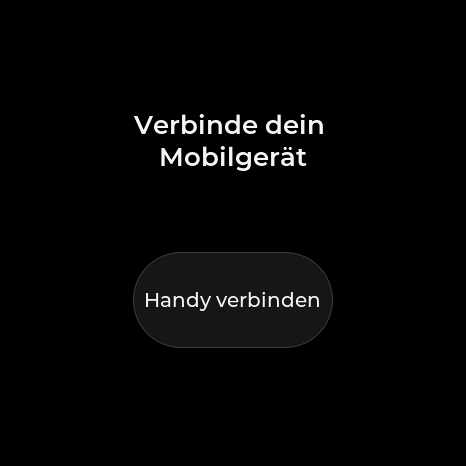
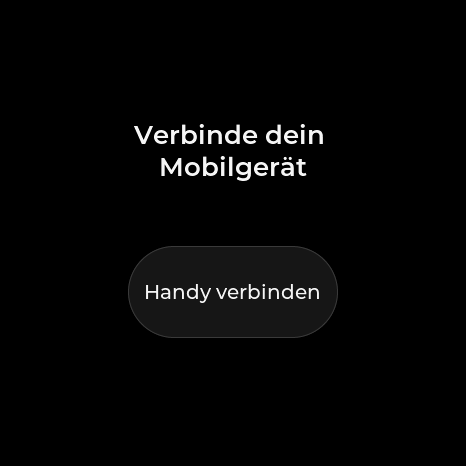
feat(ui): pairing QR on the "Handy verbinden" screen
Tapping "Handy verbinden" swaps the prompt for a pairing QR code (white,
168 px) with a 3-line quick guide below it — Bluetooth an · Kamera auf
den Code · nach dem Verbinden die App öffnen — plus the advertising
status. Tap the QR to go back.

- The QR encodes `blitzerdedsp://pair?mac=<BLE address>`; the URI scheme
  is provisional (TODO — the companion app owns it), but the real BLE
  MAC is baked in so the app connects to *this* display.
- BleTransport::address_string() exposes the MAC once the host syncs;
  app_main fills the QR in via ScreenManager::set_connect_qr().
- Enabled LV_USE_QRCODE (host lv_conf + firmware Kconfig).
- ConnectScreen resets to the prompt when the screen is left.

Host tests 62/62. Firmware: advertises as BlitzerdeDsp (98:A3:16:A7:F1:EA),
heap after LVGL ~109 KB, binary 1.83 MB (42% free), stable.

diff --git a/ui/screens/connect_screen.cpp b/ui/screens/connect_screen.cpp
@@ -1,5 +1,7 @@
 #include "ui/screens/connect_screen.h"
 
+#include <cstring>
+
 #include "ui/i18n/i18n.h"
 #include "ui/theme/fonts.h"
 #include "ui/theme/tokens.h"
@@ -8,32 +10,89 @@
 
 namespace ui {
 
+namespace {
+constexpr int kQrSize = 168;
+constexpr int kQrPad = 12;
+const char* kInitialPayload = "blitzerdedsp://pair";
+}  // namespace
+
 ConnectScreen::ConnectScreen(lv_obj_t* parent) {
     root_ = make_layer(parent);
     lv_obj_set_size(root_, 466, 466);
     set_bg(root_, tok::kBg);
 
-    lv_obj_t* prompt = lv_label_create(root_);
-    lv_label_set_text(prompt, i18n::t(i18n::Str::ConnectPrompt));
-    lv_obj_set_style_text_font(prompt, font::title(), 0);
-    lv_obj_set_style_text_color(prompt, tok::col(tok::kTextPrimary), 0);
-    lv_obj_set_style_text_align(prompt, LV_TEXT_ALIGN_CENTER, 0);
-    lv_obj_set_width(prompt, 300);
-    lv_label_set_long_mode(prompt, LV_LABEL_LONG_WRAP);
-    place_center(prompt, 233, 140);
+    // ── prompt view ──────────────────────────────────────────────────────────
+    prompt_ = lv_label_create(root_);
+    lv_label_set_text(prompt_, i18n::t(i18n::Str::ConnectPrompt));
+    lv_obj_set_style_text_font(prompt_, font::title(), 0);
+    lv_obj_set_style_text_color(prompt_, tok::col(tok::kTextPrimary), 0);
+    lv_obj_set_style_text_align(prompt_, LV_TEXT_ALIGN_CENTER, 0);
+    lv_obj_set_width(prompt_, 300);
+    lv_label_set_long_mode(prompt_, LV_LABEL_LONG_WRAP);
+    place_center(prompt_, 233, 150);
 
-    button_ = new PillButton(root_, i18n::t(i18n::Str::ConnectButton), 200, 96);
-    place_center(button_->root(), 233, 300);
-    button_->on_press([this]() { if (connect_) connect_(); });
+    button_ = new PillButton(root_, i18n::t(i18n::Str::ConnectButton), 210, 92);
+    place_center(button_->root(), 233, 292);
+    button_->on_press([this]() {
+        if (connect_) connect_();
+        show_qr(true);
+    });
+
+    // ── QR view (hidden until "Handy verbinden") ─────────────────────────────
+    qr_ = lv_qrcode_create(root_);
+    lv_qrcode_set_size(qr_, kQrSize);
+    lv_qrcode_set_dark_color(qr_, lv_color_black());
+    lv_qrcode_set_light_color(qr_, lv_color_white());
+    lv_obj_set_style_bg_color(qr_, lv_color_white(), 0);
+    lv_obj_set_style_bg_opa(qr_, LV_OPA_COVER, 0);
+    lv_obj_set_style_pad_all(qr_, kQrPad, 0);
+    lv_obj_set_style_radius(qr_, 8, 0);
+    lv_qrcode_update(qr_, kInitialPayload, std::strlen(kInitialPayload));
+    place_center(qr_, 233, 160);
+    lv_obj_add_flag(qr_, LV_OBJ_FLAG_CLICKABLE);   // tap to go back to the prompt
+    lv_obj_add_event_cb(
+        qr_,
+        [](lv_event_t* e) {
+            static_cast<ConnectScreen*>(lv_event_get_user_data(e))->show_qr(false);
+        },
+        LV_EVENT_CLICKED, this);
+
+    guide_ = lv_label_create(root_);
+    lv_label_set_text(guide_, i18n::t(i18n::Str::ConnectGuide));
+    lv_obj_set_style_text_font(guide_, font::small(), 0);
+    lv_obj_set_style_text_color(guide_, tok::col(tok::kTextMuted), 0);
+    lv_obj_set_style_text_align(guide_, LV_TEXT_ALIGN_LEFT, 0);
+    lv_obj_set_style_text_line_space(guide_, 4, 0);
+    place_center(guide_, 233, 330);
 
     status_ = lv_label_create(root_);
     lv_obj_set_style_text_font(status_, font::small(), 0);
     lv_obj_set_style_text_color(status_, tok::col(tok::kTextMuted), 0);
-    place_center(status_, 233, 372);
+    place_center(status_, 233, 400);
+
+    show_qr(false);
     set_status(Status::Idle);
 }
 
 ConnectScreen::~ConnectScreen() { delete button_; }
+
+void ConnectScreen::show_qr(bool on) {
+    for (lv_obj_t* o : {qr_, guide_}) {
+        if (on) lv_obj_remove_flag(o, LV_OBJ_FLAG_HIDDEN);
+        else lv_obj_add_flag(o, LV_OBJ_FLAG_HIDDEN);
+    }
+    for (lv_obj_t* o : {prompt_, button_->root()}) {
+        if (on) lv_obj_add_flag(o, LV_OBJ_FLAG_HIDDEN);
+        else lv_obj_remove_flag(o, LV_OBJ_FLAG_HIDDEN);
+    }
+}
+
+void ConnectScreen::reset() { show_qr(false); }
+
+void ConnectScreen::set_qr_payload(const char* s) {
+    if (!s || !*s || !qr_) return;
+    lv_qrcode_update(qr_, s, std::strlen(s));
+}
 
 void ConnectScreen::set_status(Status s) {
     const char* txt = "";

diff --git a/firmware/components/transport_ble/ble_transport.cpp b/firmware/components/transport_ble/ble_transport.cpp
@@ -11,6 +11,7 @@
 // run on the app loop. The small shared state is guarded by g_mtx.
 #include "firmware/components/transport_ble/ble_transport.h"
 
+#include <cstdio>
 #include <cstring>
 
 #include "esp_log.h"
@@ -61,6 +62,7 @@ uint16_t g_settings_h = 0;
 bool     g_event_sub = false;
 bool     g_settings_sub = false;
 uint8_t  g_own_addr_type = 0;
+char     g_addr_str[18] = {0};
 
 struct Lock {
     Lock() { if (g_mtx) xSemaphoreTake(g_mtx, portMAX_DELAY); }
@@ -280,8 +282,13 @@ void on_sync() {
         ESP_LOGE(TAG, "no BLE address");
         return;
     }
+    uint8_t a[6];
+    if (ble_hs_id_copy_addr(g_own_addr_type, a, nullptr) == 0) {
+        std::snprintf(g_addr_str, sizeof(g_addr_str), "%02X:%02X:%02X:%02X:%02X:%02X",
+                      a[5], a[4], a[3], a[2], a[1], a[0]);   // NimBLE stores it LE
+    }
     start_advertising();
-    ESP_LOGI(TAG, "advertising as BlitzerdeDsp");
+    ESP_LOGI(TAG, "advertising as BlitzerdeDsp (%s)", g_addr_str);
 }
 
 void on_reset(int reason) { ESP_LOGW(TAG, "nimble reset %d", reason); }
@@ -379,6 +386,7 @@ bool BleTransport::state_stale() const {
 
 void BleTransport::set_caps(uint32_t caps) { g_caps = caps; }
 void BleTransport::set_fw_version(const char* v) { g_fw = v; }
+const char* BleTransport::address_string() const { return g_addr_str; }
 void BleTransport::on_time_set(std::function<void(uint32_t, int16_t)> cb) {
     g_time_cb = std::move(cb);
 }

diff --git a/firmware/main/app_main.cpp b/firmware/main/app_main.cpp
@@ -135,6 +135,9 @@ extern "C" void app_main(void) {
     hal::Buttons* btn = hal::esp::buttons_instance();
     uint32_t ticks = 0;
     uint64_t last_beat = 0;
+#if defined(CONFIG_BDSP_ENABLE_BLE)
+    bool qr_set = false;
+#endif
     while (true) {
         if (boot && boot_done.load()) {
             hal::esp::lvgl_lock();
@@ -142,6 +145,20 @@ extern "C" void app_main(void) {
             boot = nullptr;
             hal::esp::lvgl_unlock();
         }
+#if defined(CONFIG_BDSP_ENABLE_BLE)
+        if (!qr_set && ble.address_string()[0]) {
+            // TODO(verify): the exact pairing URI is the companion app's call
+            // (App Link / custom scheme). This carries the BLE address so the
+            // app connects to *this* display.
+            char uri[64];
+            std::snprintf(uri, sizeof(uri), "blitzerdedsp://pair?mac=%s", ble.address_string());
+            hal::esp::lvgl_lock();
+            mgr->set_connect_qr(uri);
+            hal::esp::lvgl_unlock();
+            qr_set = true;
+            ESP_LOGI(TAG, "pairing QR: %s", uri);
+        }
+#endif
         if (btn->poll_boot() == hal::ButtonEvent::LongPress) {
 #if defined(CONFIG_BDSP_ENABLE_BLE)
             const bool want_demo = !mux.demo_active();

diff --git a/ui/screens/connect_screen.h b/ui/screens/connect_screen.h
@@ -1,6 +1,6 @@
 // ui/screens/connect_screen.h — "Verbinde dein Mobilgerät" prompt. Shown on first
-// boot / when the BLE link is missing. Overlay above the tileview; swipe-up to
-// Settings stays available (handled by ScreenManager). Layout: docs/ui-spec.md 5.7.
+// boot / when the BLE link is missing. Tapping "Handy verbinden" swaps the prompt
+// for a pairing QR code + a short guide. Layout: docs/ui-spec.md 5.7.
 #pragma once
 
 #include <functional>
@@ -23,11 +23,20 @@ public:
 
     void on_connect(std::function<void()> cb) { connect_ = std::move(cb); }
     void set_status(Status s);
+    // The string the pairing QR encodes (a deep link the companion app handles).
+    void set_qr_payload(const char* s);
+    // Back to the prompt (e.g. when leaving the screen).
+    void reset();
 
     lv_obj_t* root() { return root_; }
 
 private:
+    void show_qr(bool on);
+
     lv_obj_t*             root_ = nullptr;
+    lv_obj_t*             prompt_ = nullptr;
+    lv_obj_t*             qr_ = nullptr;
+    lv_obj_t*             guide_ = nullptr;
     lv_obj_t*             status_ = nullptr;
     PillButton*           button_ = nullptr;
     std::function<void()> connect_;

diff --git a/ui/screens/screen_manager.cpp b/ui/screens/screen_manager.cpp
@@ -111,6 +111,10 @@ void ScreenManager::set_link_status(const char* text) {
     settings_->set_footer("0.1.0-dev", 1, text);
 }
 
+void ScreenManager::set_connect_qr(const char* payload) {
+    connect_->set_qr_payload(payload);
+}
+
 void ScreenManager::set_state(const core::DisplayState& s) {
     state_ = s;
     use_mph_ = s.useMph;
@@ -124,8 +128,12 @@ void ScreenManager::set_state(const core::DisplayState& s) {
 void ScreenManager::set_view(const core::ViewModel& vm) {
     // Connect screen (its own layer, on top of everything).
     const bool want_connect = vm.screen == core::Screen::Connect;
-    if (want_connect) lv_obj_remove_flag(overlay_layer_, LV_OBJ_FLAG_HIDDEN);
-    else lv_obj_add_flag(overlay_layer_, LV_OBJ_FLAG_HIDDEN);
+    if (want_connect) {
+        lv_obj_remove_flag(overlay_layer_, LV_OBJ_FLAG_HIDDEN);
+    } else {
+        lv_obj_add_flag(overlay_layer_, LV_OBJ_FLAG_HIDDEN);
+        connect_->reset();   // next open starts on the prompt, not the QR
+    }
 
     // Settings layer.
     const bool want_settings = vm.screen == core::Screen::Settings;

diff --git a/ui/lv_conf.h b/ui/lv_conf.h
@@ -43,6 +43,7 @@
 #define LV_USE_GRID 1
 #define LV_USE_TILEVIEW 1              // Home / Melden / Settings swipe navigation
 #define LV_USE_SNAPSHOT 1             // sim screenshot export
+#define LV_USE_QRCODE 1               // "Handy verbinden" pairing code
 
 // ─── Fonts ───────────────────────────────────────────────────────────────────
 #define LV_FONT_MONTSERRAT_14 1           // fallback + LVGL symbol glyphs (small)

diff --git a/ui/i18n/i18n_de.cpp b/ui/i18n/i18n_de.cpp
@@ -28,6 +28,10 @@ constexpr const char* kDe[] = {
     "km/h \xC2\xB7 mph",  // km/h · mph
     "Verbinde dein Mobilger\xC3\xA4t",  // Mobilgerät
     "Handy verbinden",
+    // ConnectGuide — Bluetooth an, Kamera auf den Code, nach dem Verbinden App öffnen
+    "1  Bluetooth einschalten\n"
+    "2  Kamera auf den Code halten\n"
+    "3  Nach dem Verbinden die App \xC3\xB6" "ffnen",
     "Advertising \xE2\x80\xA6",  // Advertising …
     "Verbunden",
     "Fehler",

diff --git a/firmware/components/transport_ble/ble_transport.h b/firmware/components/transport_ble/ble_transport.h
@@ -31,6 +31,9 @@ public:
     void set_fw_version(const char* v);
     // Fires (from the BLE task) when the app writes the Time characteristic.
     void on_time_set(std::function<void(uint32_t epochS, int16_t tzOffsetMin)> cb);
+
+    // "XX:XX:XX:XX:XX:XX", empty until the host has synced (~1 s after start()).
+    const char* address_string() const;
 };
 
 }  // namespace transport::ble

diff --git a/ui/i18n/i18n.h b/ui/i18n/i18n.h
@@ -28,6 +28,7 @@ enum class Str {
     SettingUnits,       // "km/h · mph"
     ConnectPrompt,      // "Verbinde dein Mobilgerät"
     ConnectButton,      // "Handy verbinden"
+    ConnectGuide,       // QR quick-guide, 3 short lines
     StatusAdvertising,  // "Advertising …"
     StatusConnected,    // "Verbunden"
     StatusError,        // "Fehler"

diff --git a/ui/screens/screen_manager.h b/ui/screens/screen_manager.h
@@ -52,6 +52,7 @@ public:
     void set_state(const core::DisplayState& s);
     void set_view(const core::ViewModel& vm);
     void set_link_status(const char* text);
+    void set_connect_qr(const char* payload);   // deep link for the pairing QR
 
     Tile    current() const { return current_; }
     Overlay overlay() const { return overlay_; }

diff --git a/docs/ui-spec.md b/docs/ui-spec.md
@@ -110,11 +110,16 @@ return to Home.
 - Small footer: firmware version, protocol version, link status.
 - Every change persists to NVS immediately **and** emits the matching `Settings*` event.
 
-## 5.7 Handy verbinden — M3
+## 5.7 Handy verbinden
 
-- "Verbinde dein Mobilgerät", two lines centred in the upper third.
-- Button "Handy verbinden", centre (233, 320), Ø ~96 — starts advertising and shows progress
-  (Advertising … / Verbunden / Fehler) in place.
+- **Prompt view:** "Verbinde dein Mobilgerät" + a "Handy verbinden" button.
+- **Tapping the button** → the button + prompt are replaced by a **pairing QR code** (white,
+  ~168 px, centred at (233, 160)) with a 3-line quick guide below it: *Bluetooth an · Kamera auf
+  den Code · nach dem Verbinden die App öffnen*. A status line ("Advertising …" / "Verbunden")
+  sits under that. Tap the QR to go back to the prompt.
+- The QR encodes a pairing deep link `blitzerdedsp://pair?mac=<BLE address>` (**scheme is
+  provisional** — the companion app owns it). `ScreenManager::set_connect_qr()` fills it in once
+  the BLE host has synced.
 - Shown on first boot and whenever the BLE link is missing; swipe-up to Settings still works.
 
 ## 5.8 Navigation & gestures — M3
